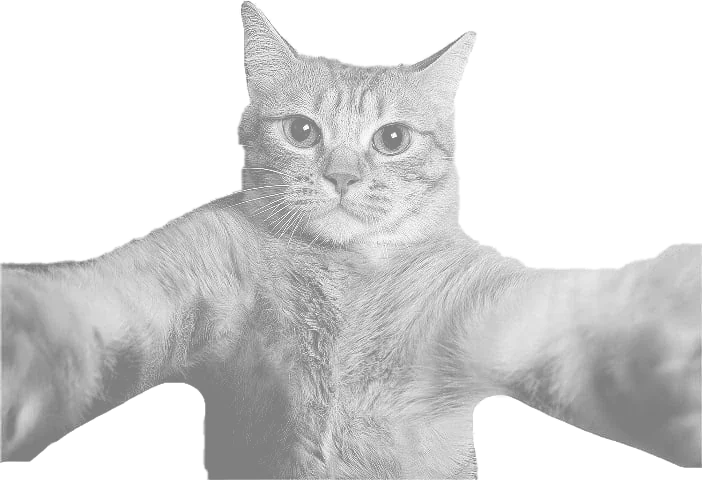
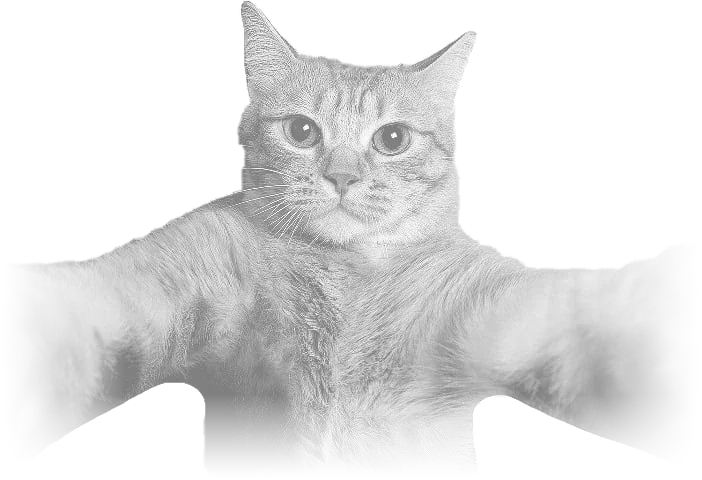
Без синей рамки фокуса на iPhone; мягкие края у кота и королевы

Changed region(s): [[0.7778, 0.5, 1.0, 1.0], [0.2692, 0.8438, 0.688, 1.0], [0.0, 0.5312, 0.1795, 0.9688]]

diff --git a/index.html b/index.html
@@ -53,6 +53,10 @@
 
   /* ---------- поле с карточками: свободный коллаж ---------- */
   .field{position:relative;margin:0 16px;min-height:100vh}
+  /* без синей рамки фокуса от касаний; при управлении с клавиатуры — аккуратная пунктирная */
+  .card, .close{outline:none;-webkit-tap-highlight-color:transparent}
+  .card:focus-visible{outline:1px dashed var(--muted);outline-offset:6px}
+  .close:focus-visible{outline:2px solid var(--ink);outline-offset:3px}
   .card{
     position:absolute;left:0;top:0;
     width:var(--w);
@@ -759,6 +763,11 @@ cards.forEach(card => card.addEventListener('click', e => {
   openCard(card);
 }));
 
+/* фокус возвращаем только тем, кто управляет с клавиатуры — иначе iPhone рисует синюю рамку */
+let usingKeyboard = false;
+addEventListener('keydown', e => { if (e.key === 'Tab' || e.key === 'Enter' || e.key === ' ') usingKeyboard = true; }, true);
+['touchstart','pointerdown'].forEach(t => addEventListener(t, () => { usingKeyboard = false; }, { capture: true, passive: true }));
+
 /* ---------- шторка ---------- */
 const sheet = document.getElementById("sheet"), closeBtn = document.getElementById("closeBtn");
 function videoHTML(src){
@@ -797,12 +806,12 @@ function openDay(i){
   sBody.innerHTML = (d.blocks || []).map(blockHTML).join('');
   sheet.scrollTop = 0;
   document.body.classList.add('open','locked');
-  closeBtn.focus({preventScroll:true});
+  if (usingKeyboard) closeBtn.focus({preventScroll:true});
 }
 function closeDay(){
   document.body.classList.remove('open','locked');
   sBody.innerHTML = '';                 // останавливает видео
-  if (active) { const c = active; deactivate(c); c.focus({preventScroll:true}); }
+  if (active) { const c = active; deactivate(c); if (usingKeyboard) c.focus({preventScroll:true}); else c.blur(); }
 }
 closeBtn.onclick = closeDay;
 scrim.onclick = closeDay;
